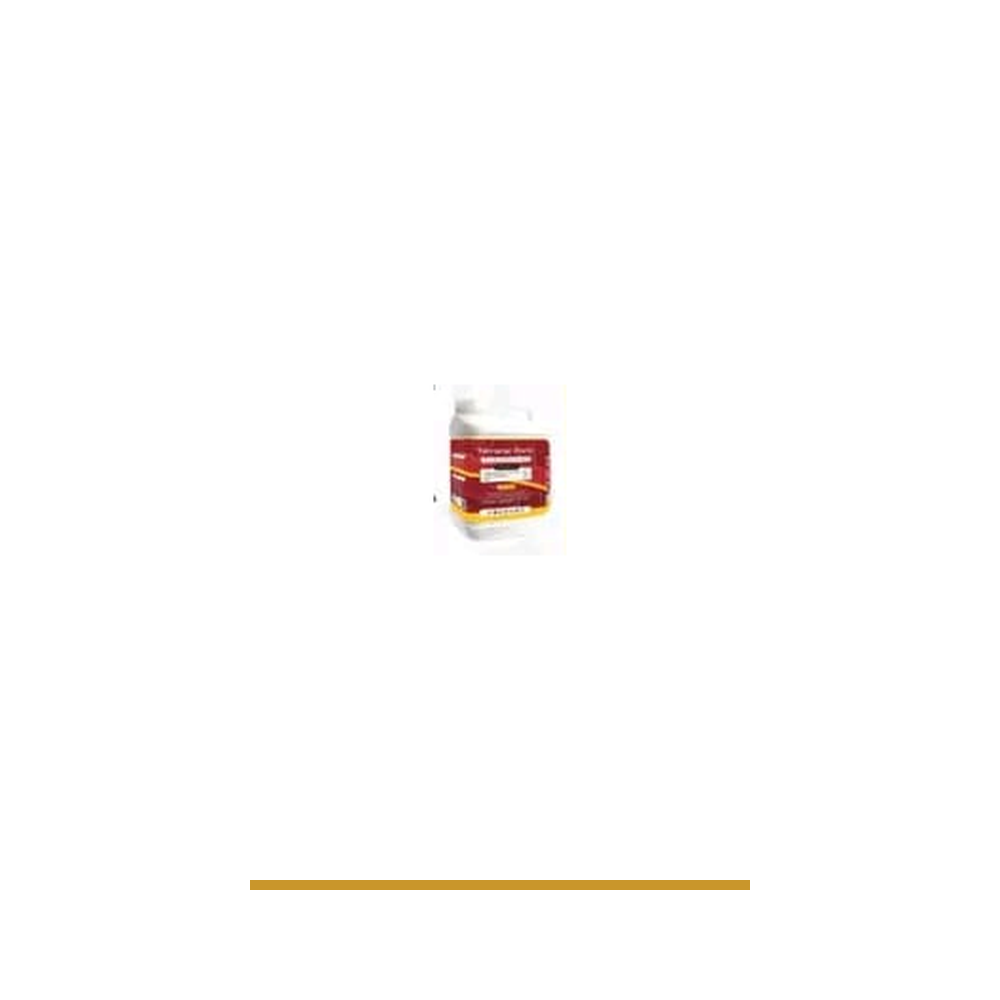
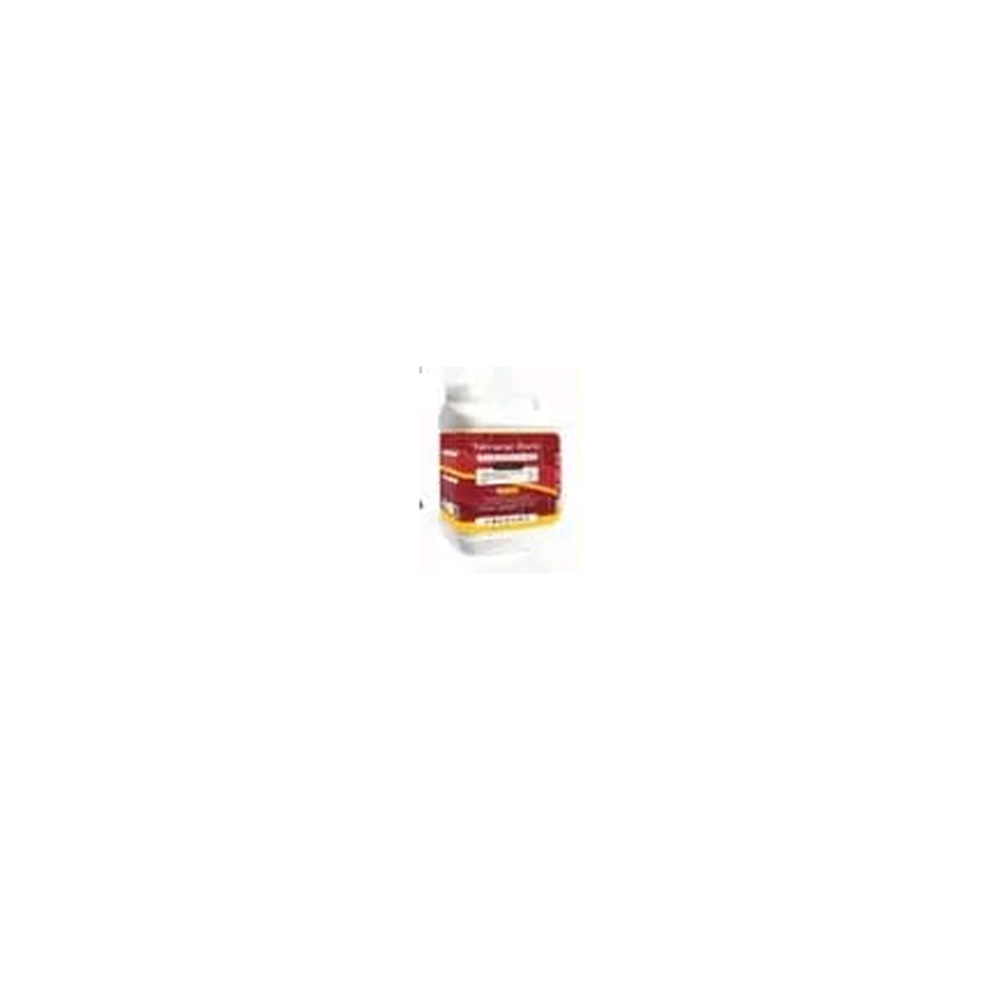
تحسين مظهر بطاقات الفئات: منتج أكبر وشريط كريمي

Changed region(s): [[0.434, 0.372, 0.589, 0.558], [0.248, 0.868, 0.744, 0.899]]

diff --git a/css/base.css b/css/base.css
@@ -183,8 +183,8 @@ input, select, textarea { font-family: inherit; font-size: 1rem; }
 .cat-card-body {
   position: absolute; inset-inline: 0; bottom: 0;
   padding: 26px 14px 12px;
-  background: linear-gradient(to top, rgba(12,16,38,.82), rgba(12,16,38,.35) 55%, transparent);
-  color: #fff;
+  background: linear-gradient(to top, rgba(247,242,231,.97), rgba(247,242,231,.75) 60%, transparent);
+  color: var(--navy);
 }
 .cat-card-body strong { display: block; font-size: 1rem; font-weight: 800; }
 .cat-card-body span { font-size: .74rem; opacity: .85; }
